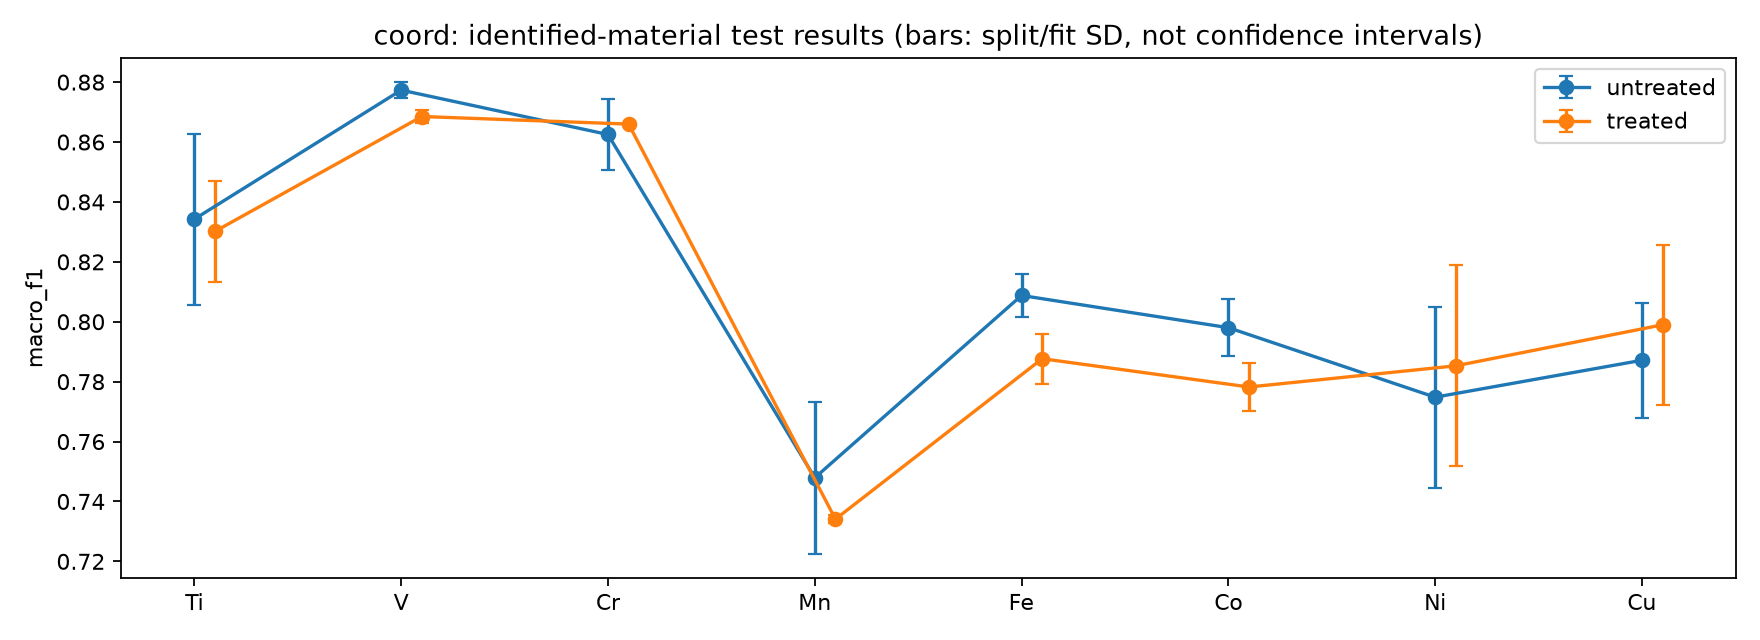
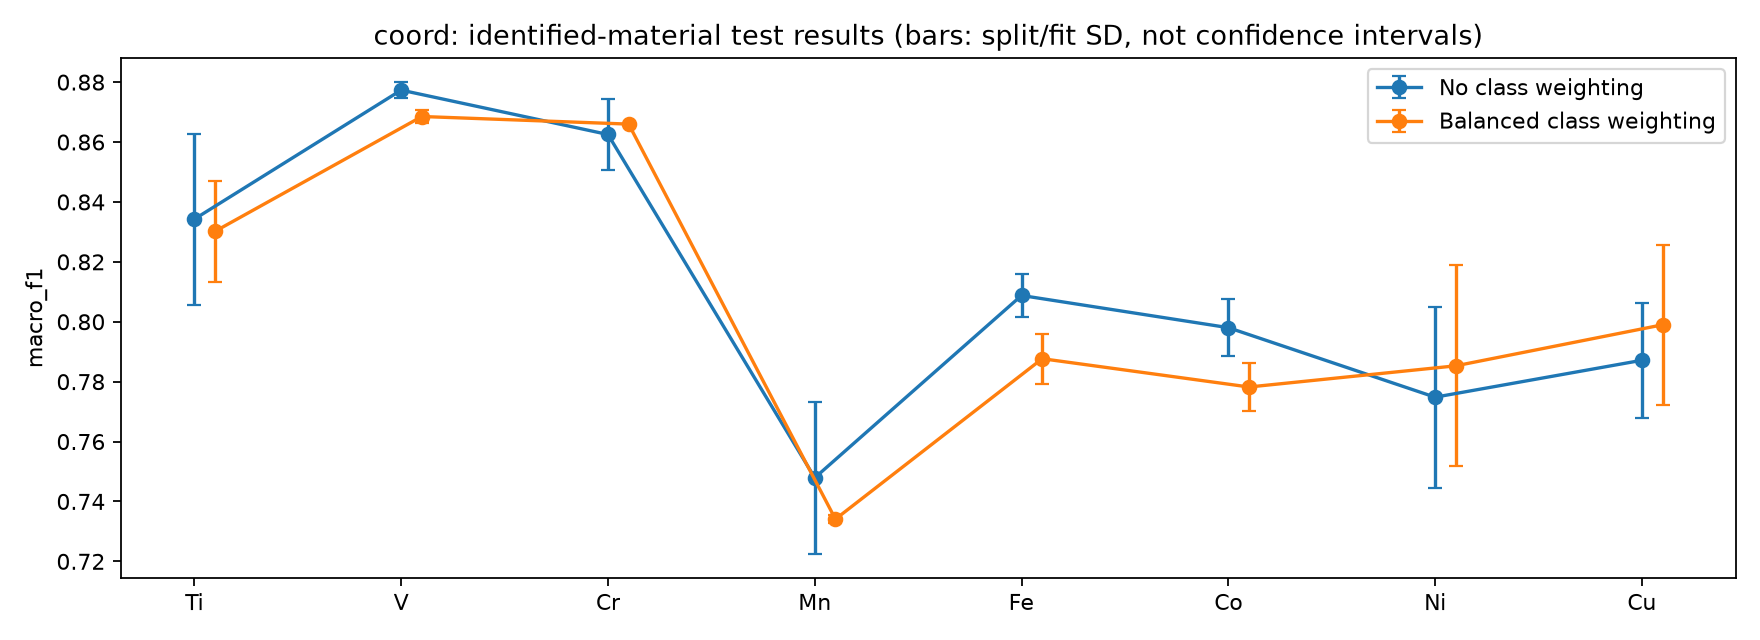
Clarify class-weighting labels in Torrisi Q1 figures

Changed region(s): [[0.7812, 0.0938, 0.9688, 0.2188]]

diff --git a/docs/data/torrisi-2020-xanes-rf/verification/Q1/code/candidate.py b/docs/data/torrisi-2020-xanes-rf/verification/Q1/code/candidate.py
@@ -28,6 +28,9 @@ ELEMENTS=['Ti','V','Cr','Mn','Fe','Co','Ni','Cu']
 TARGETS={'coord':'coordination','md':'avg_nn_dists','bader':'bader'}
 CONDITIONS={'Q1':{'coord':['untreated','treated']},'Q2':{'md':['model']},'Q3':{'bader':['full','white_line']},'Q4':{t:['pointwise','multiscale'] for t in TARGETS},'Q5':{t:['released','unit_peak'] for t in ['coord','md']}}
 
+def condition_label(condition):
+    return {'untreated':'No class weighting','treated':'Balanced class weighting'}.get(condition,condition)
+
 def dump(path,obj):
     path.write_text(json.dumps(obj,indent=2,allow_nan=False)+'\n')
 def write_csv(path,rows,fields=None):
@@ -226,6 +229,8 @@ def summarize(question,out,runs,metrics,evidence,localization,families):
     vals={}
     for row in metrics:vals.setdefault(row['run_id'],{})[row['metric']]=row['value']
     synthesis=[]
+    if question=='Q1':
+        synthesis=['No class weighting uses equal training-record weights. Balanced class weighting gives each training record a weight inversely proportional to its coordination class frequency in the training set. Both conditions use the same spectra and partitions. Machine-readable artifacts retain untreated and treated as the respective condition identifiers.','']
     if question=='Q5':
         ps=evidence['comparisons']
         worsened={t:sum(np.mean([p['gain'] for p in ps if p['element']==e and p['target']==t])<0 for e in ELEMENTS) for t in ['coord','md']}
@@ -248,8 +253,8 @@ def summarize(question,out,runs,metrics,evidence,localization,families):
                 selected=[r for r in runs if r['element']==element and r['target']==target and r['condition']==condition and r['generalization']=='identified_material']
                 a=[vals[r['run_id']][key] for r in selected]
                 points.append(np.mean(a));spreads.append(np.std(a))
-                lines.append(f'| {element} / {target} | {condition} | {np.mean(a):.4f} | {min(a):.4f}–{max(a):.4f} |')
-            ax.errorbar(np.arange(8)+.1*ci,points,yerr=spreads,marker='o',capsize=3,label=condition)
+                lines.append(f'| {element} / {target} | {condition_label(condition)} | {np.mean(a):.4f} | {min(a):.4f}–{max(a):.4f} |')
+            ax.errorbar(np.arange(8)+.1*ci,points,yerr=spreads,marker='o',capsize=3,label=condition_label(condition))
         ax.set_xticks(range(8),ELEMENTS);ax.set_ylabel(key);ax.set_title(f'{target}: identified-material test results (bars: split/fit SD, not confidence intervals)');ax.legend()
     fig.tight_layout();fig.savefig(out/'diagnostics.png',dpi=160);plt.close(fig)
     lines+=['','Paired gains and conditional 95% intervals are in comparisons.csv where applicable. Positive gain favors the second condition; regression gain is a reduction in MAE, classification gain is an increase in macro-F1. Individual intervals are descriptive and are not multiplicity-adjusted.','']
@@ -260,7 +265,7 @@ def summarize(question,out,runs,metrics,evidence,localization,families):
         for condition in CONDITIONS[question][target]:
             selected=[r for r in runs if r['target']==target and r['condition']==condition and r['generalization']=='identified_material']
             gains=[(vals[r['run_id']][key]-base_by_run[r['run_id']]['metrics'][key])*(1 if target=='coord' else -1) for r in selected]
-            lines.append(f'- {target}/{condition}: {np.mean(gains):.4f} mean gain, range {min(gains):.4f}–{max(gains):.4f} across elements and holdouts. This pooled description does not replace the element-specific scores.')
+            lines.append(f'- {target}/{condition_label(condition)}: {np.mean(gains):.4f} mean gain, range {min(gains):.4f}–{max(gains):.4f} across elements and holdouts. This pooled description does not replace the element-specific scores.')
     lines += ['']
     if question in ['Q1','Q4','Q5']:
         lines += ['Paired material-holdout comparisons (positive favors the second condition; intervals conditional on fitted models):','', '| Element / target | Second vs first | Mean gain | Individual 95% intervals |', '|---|---|---:|---|']
@@ -268,7 +273,7 @@ def summarize(question,out,runs,metrics,evidence,localization,families):
             for target in targets:
                 ps=[x for x in evidence['comparisons'] if x['element']==element and x['target']==target and x['generalization']=='identified_material']
                 intervals='; '.join(f'[{x["low"]:.4f}, {x["high"]:.4f}]' for x in ps)
-                lines.append(f'| {element} / {target} | {ps[0]["second"]} vs {ps[0]["first"]} | {np.mean([x["gain"] for x in ps]):.4f} | {intervals} |')
+                lines.append(f'| {element} / {target} | {condition_label(ps[0]["second"])} vs {condition_label(ps[0]["first"])} | {np.mean([x["gain"] for x in ps]):.4f} | {intervals} |')
         lines += ['','Intervals crossing zero are inconclusive for direction. Similar scores are not a formal equivalence result: no practical equivalence margin was specified.','']
     plot_extra(question,out,runs,evidence,localization)
     if question=='Q1':
@@ -279,7 +284,7 @@ def summarize(question,out,runs,metrics,evidence,localization,families):
             f={k:np.mean([vals[r['run_id']][f'f1_{k}'] for r in rr if r['condition']=='untreated']) for k in [4,5,6]}
             spectrum=[vals[r['run_id']]['macro_f1'] for r in runs if r['element']==e and r['condition']=='untreated' and r['generalization']=='spectrum']
             material=[vals[r['run_id']]['macro_f1'] for r in rr if r['condition']=='untreated']
-            lines.append(f'- {e}: untreated class F1(4,5,6)={f[4]:.3f}, {f[5]:.3f}, {f[6]:.3f}; record versus material macro-F1={np.mean(spectrum):.3f} versus {np.mean(material):.3f}. See class_counts.csv for prevalence and confusion.csv for error tradeoffs. Record holdouts can share IDs with training and do not estimate new-material performance.')
+            lines.append(f'- {e}: No class weighting, class F1(4,5,6)={f[4]:.3f}, {f[5]:.3f}, {f[6]:.3f}; record versus material macro-F1={np.mean(spectrum):.3f} versus {np.mean(material):.3f}. See class_counts.csv for prevalence and confusion.csv for error tradeoffs. Record holdouts can share IDs with training and do not estimate new-material performance.')
         lines += ['','Class weighting is one imbalance intervention; failure of this intervention does not show that rare-environment prediction is irreducibly poor. Small class support and unstable material holdouts limit conclusions.']
     elif question=='Q2':
         lines+=['Regimes were defined by the training-distance 10th/90th percentiles. This retrospective error stratification uses test truth to characterize failure; it is not a deployable confidence detector. The training median supplies a non-spectral baseline.','']
@@ -338,7 +343,10 @@ def plot_extra(question,out,runs,evidence,localization):
                 ax.plot([x,x],[p['low'],p['high']],color='tab:blue',alpha=.6)
                 ax.scatter(x,p['gain'],s=20,color='tab:blue')
             ax.axhline(0,color='black',linewidth=.7);ax.set_xticks(range(8),ELEMENTS)
-            ax.set_title(f"{target}: benefit of {z[0]['second']} over {z[0]['first']} (positive favors {z[0]['second']})")
+            if question=='Q1':
+                ax.set_title('coord: Balanced class weighting − No class weighting\nPositive values favor Balanced class weighting')
+            else:
+                ax.set_title(f"{target}: benefit of {z[0]['second']} over {z[0]['first']} (positive favors {z[0]['second']})")
             ax.set_ylabel('Macro-F1 gain' if target=='coord' else 'MAE reduction')
         fig.suptitle('Paired effects with conditional 95% material-bootstrap intervals',fontsize=11)
         fig.tight_layout();fig.savefig(out/'paired_effects.png',dpi=160);plt.close(fig)

diff --git a/docs/data/torrisi-2020-xanes-rf/workflows/candidate.py b/docs/data/torrisi-2020-xanes-rf/workflows/candidate.py
@@ -28,6 +28,9 @@ ELEMENTS=['Ti','V','Cr','Mn','Fe','Co','Ni','Cu']
 TARGETS={'coord':'coordination','md':'avg_nn_dists','bader':'bader'}
 CONDITIONS={'Q1':{'coord':['untreated','treated']},'Q2':{'md':['model']},'Q3':{'bader':['full','white_line']},'Q4':{t:['pointwise','multiscale'] for t in TARGETS},'Q5':{t:['released','unit_peak'] for t in ['coord','md']}}
 
+def condition_label(condition):
+    return {'untreated':'No class weighting','treated':'Balanced class weighting'}.get(condition,condition)
+
 def dump(path,obj):
     path.write_text(json.dumps(obj,indent=2,allow_nan=False)+'\n')
 def write_csv(path,rows,fields=None):
@@ -226,6 +229,8 @@ def summarize(question,out,runs,metrics,evidence,localization,families):
     vals={}
     for row in metrics:vals.setdefault(row['run_id'],{})[row['metric']]=row['value']
     synthesis=[]
+    if question=='Q1':
+        synthesis=['No class weighting uses equal training-record weights. Balanced class weighting gives each training record a weight inversely proportional to its coordination class frequency in the training set. Both conditions use the same spectra and partitions. Machine-readable artifacts retain untreated and treated as the respective condition identifiers.','']
     if question=='Q5':
         ps=evidence['comparisons']
         worsened={t:sum(np.mean([p['gain'] for p in ps if p['element']==e and p['target']==t])<0 for e in ELEMENTS) for t in ['coord','md']}
@@ -248,8 +253,8 @@ def summarize(question,out,runs,metrics,evidence,localization,families):
                 selected=[r for r in runs if r['element']==element and r['target']==target and r['condition']==condition and r['generalization']=='identified_material']
                 a=[vals[r['run_id']][key] for r in selected]
                 points.append(np.mean(a));spreads.append(np.std(a))
-                lines.append(f'| {element} / {target} | {condition} | {np.mean(a):.4f} | {min(a):.4f}–{max(a):.4f} |')
-            ax.errorbar(np.arange(8)+.1*ci,points,yerr=spreads,marker='o',capsize=3,label=condition)
+                lines.append(f'| {element} / {target} | {condition_label(condition)} | {np.mean(a):.4f} | {min(a):.4f}–{max(a):.4f} |')
+            ax.errorbar(np.arange(8)+.1*ci,points,yerr=spreads,marker='o',capsize=3,label=condition_label(condition))
         ax.set_xticks(range(8),ELEMENTS);ax.set_ylabel(key);ax.set_title(f'{target}: identified-material test results (bars: split/fit SD, not confidence intervals)');ax.legend()
     fig.tight_layout();fig.savefig(out/'diagnostics.png',dpi=160);plt.close(fig)
     lines+=['','Paired gains and conditional 95% intervals are in comparisons.csv where applicable. Positive gain favors the second condition; regression gain is a reduction in MAE, classification gain is an increase in macro-F1. Individual intervals are descriptive and are not multiplicity-adjusted.','']
@@ -260,7 +265,7 @@ def summarize(question,out,runs,metrics,evidence,localization,families):
         for condition in CONDITIONS[question][target]:
             selected=[r for r in runs if r['target']==target and r['condition']==condition and r['generalization']=='identified_material']
             gains=[(vals[r['run_id']][key]-base_by_run[r['run_id']]['metrics'][key])*(1 if target=='coord' else -1) for r in selected]
-            lines.append(f'- {target}/{condition}: {np.mean(gains):.4f} mean gain, range {min(gains):.4f}–{max(gains):.4f} across elements and holdouts. This pooled description does not replace the element-specific scores.')
+            lines.append(f'- {target}/{condition_label(condition)}: {np.mean(gains):.4f} mean gain, range {min(gains):.4f}–{max(gains):.4f} across elements and holdouts. This pooled description does not replace the element-specific scores.')
     lines += ['']
     if question in ['Q1','Q4','Q5']:
         lines += ['Paired material-holdout comparisons (positive favors the second condition; intervals conditional on fitted models):','', '| Element / target | Second vs first | Mean gain | Individual 95% intervals |', '|---|---|---:|---|']
@@ -268,7 +273,7 @@ def summarize(question,out,runs,metrics,evidence,localization,families):
             for target in targets:
                 ps=[x for x in evidence['comparisons'] if x['element']==element and x['target']==target and x['generalization']=='identified_material']
                 intervals='; '.join(f'[{x["low"]:.4f}, {x["high"]:.4f}]' for x in ps)
-                lines.append(f'| {element} / {target} | {ps[0]["second"]} vs {ps[0]["first"]} | {np.mean([x["gain"] for x in ps]):.4f} | {intervals} |')
+                lines.append(f'| {element} / {target} | {condition_label(ps[0]["second"])} vs {condition_label(ps[0]["first"])} | {np.mean([x["gain"] for x in ps]):.4f} | {intervals} |')
         lines += ['','Intervals crossing zero are inconclusive for direction. Similar scores are not a formal equivalence result: no practical equivalence margin was specified.','']
     plot_extra(question,out,runs,evidence,localization)
     if question=='Q1':
@@ -279,7 +284,7 @@ def summarize(question,out,runs,metrics,evidence,localization,families):
             f={k:np.mean([vals[r['run_id']][f'f1_{k}'] for r in rr if r['condition']=='untreated']) for k in [4,5,6]}
             spectrum=[vals[r['run_id']]['macro_f1'] for r in runs if r['element']==e and r['condition']=='untreated' and r['generalization']=='spectrum']
             material=[vals[r['run_id']]['macro_f1'] for r in rr if r['condition']=='untreated']
-            lines.append(f'- {e}: untreated class F1(4,5,6)={f[4]:.3f}, {f[5]:.3f}, {f[6]:.3f}; record versus material macro-F1={np.mean(spectrum):.3f} versus {np.mean(material):.3f}. See class_counts.csv for prevalence and confusion.csv for error tradeoffs. Record holdouts can share IDs with training and do not estimate new-material performance.')
+            lines.append(f'- {e}: No class weighting, class F1(4,5,6)={f[4]:.3f}, {f[5]:.3f}, {f[6]:.3f}; record versus material macro-F1={np.mean(spectrum):.3f} versus {np.mean(material):.3f}. See class_counts.csv for prevalence and confusion.csv for error tradeoffs. Record holdouts can share IDs with training and do not estimate new-material performance.')
         lines += ['','Class weighting is one imbalance intervention; failure of this intervention does not show that rare-environment prediction is irreducibly poor. Small class support and unstable material holdouts limit conclusions.']
     elif question=='Q2':
         lines+=['Regimes were defined by the training-distance 10th/90th percentiles. This retrospective error stratification uses test truth to characterize failure; it is not a deployable confidence detector. The training median supplies a non-spectral baseline.','']
@@ -338,7 +343,10 @@ def plot_extra(question,out,runs,evidence,localization):
                 ax.plot([x,x],[p['low'],p['high']],color='tab:blue',alpha=.6)
                 ax.scatter(x,p['gain'],s=20,color='tab:blue')
             ax.axhline(0,color='black',linewidth=.7);ax.set_xticks(range(8),ELEMENTS)
-            ax.set_title(f"{target}: benefit of {z[0]['second']} over {z[0]['first']} (positive favors {z[0]['second']})")
+            if question=='Q1':
+                ax.set_title('coord: Balanced class weighting − No class weighting\nPositive values favor Balanced class weighting')
+            else:
+                ax.set_title(f"{target}: benefit of {z[0]['second']} over {z[0]['first']} (positive favors {z[0]['second']})")
             ax.set_ylabel('Macro-F1 gain' if target=='coord' else 'MAE reduction')
         fig.suptitle('Paired effects with conditional 95% material-bootstrap intervals',fontsize=11)
         fig.tight_layout();fig.savefig(out/'paired_effects.png',dpi=160);plt.close(fig)

diff --git a/papers/torrisi-2020-xanes-rf/build_entry.py b/papers/torrisi-2020-xanes-rf/build_entry.py
@@ -1,5 +1,6 @@
 #!/usr/bin/env python3
 """Build standalone research tasks; worked methods remain evaluator-only."""
+import hashlib
 import json
 from pathlib import Path
 ROOT=Path(__file__).resolve().parents[2]
@@ -34,7 +35,7 @@ TASKS=[
  'For coordination numbers 4, 5 and 6 and mean neighbor distance across all eight elements, determine which conclusions about predictive information and its energy-localized signatures survive division of each spectrum by its own maximum. Distinguish normalization effects from model-fitting and sample-selection variability, and assess whether similar prediction quality supports the same scientific interpretation. ',
  'Normalization sensitivity discussed in the article and the four released score tables. Interpretation stability requires additional experiments.')]
 OPERATIONS={
- 'Q1':'Compare untreated versus class-weighted coordination models on paired material holdouts and record holdouts of the same identified cohort. Inspect training/test class support, per-class F1, confusion counts and conditional paired uncertainty.',
+ 'Q1':'Compare No class weighting and Balanced class weighting coordination models on paired material holdouts and record holdouts of the same identified cohort. Inspect training/test class support, per-class F1, confusion counts and conditional paired uncertainty.',
  'Q2':'Fit distance regressors, define short/middle/long regimes using training-distance quantiles, and compare signed errors and MAE with a training-median baseline, including material-bootstrap intervals.',
  'Q3':'Compare full absorption vectors with photon energy at maximum absorption using independently validation-selected nonlinear regressors. Estimate paired uncertainty on charge prediction differences.',
  'Q4':'Construct 51 quadratic coefficients over 10/20/50-point windows, compare with 100-point absorption for three properties, then perturb energy-midpoint groups and coefficient families on heldout data and measure stability across material partitions.',
@@ -85,9 +86,14 @@ def build():
             data.append(link(name,f'verification/published/{name}','Author-released contextual result; differing study designs need not match these values.'))
         for name in ['report.md','design.json','metrics.csv','predictions.csv','partitions.csv','evidence.json','comparisons.csv','regimes.csv','class_counts.csv','confusion.csv','feature_definitions.json','localization.json','shape_families.csv']:
             if (example/name).exists():data.append(link(name,f'verification/{q}/{name}','Executed illustrative result, not a numerical acceptance target.'))
+        if q=='Q1' and (example/'label_refresh.json').exists():
+            methods.append(link('Figure-label update',f'verification/{q}/label_refresh.json','Display-label refresh with artifact hashes; predictions, scores and numerical code remain unchanged.'))
         figures=[]
         for filename,caption in [('diagnostics.png','Prediction scores and sensitivity across material holdouts.'),('paired_effects.png','Paired effects with conditional material-bootstrap intervals; positive favors the condition named in the plot.'),('regime_errors.png','Distance error and signed bias in training-defined regimes.'),('localization.png','Heldout feature-group permutation effects; midpoint bins are not full feature support.')]:
-            if (example/filename).exists():figures.append(dict(image=f'{BASE}/verification/{q}/{filename}',label=f'{q} '+filename,caption=caption+' Generated by the illustrative workflow, not copied from the article.'))
+            if (example/filename).exists():
+                image=f'{BASE}/verification/{q}/{filename}'
+                if q=='Q1':image+='?v='+hashlib.sha256((example/filename).read_bytes()).hexdigest()[:12]
+                figures.append(dict(image=image,label=f'{q} '+filename,caption=caption+' Generated by the illustrative workflow, not copied from the article.'))
         reasoning=('Inspect the released spectra, labels, material IDs and data-source labels, then choose and justify eligibility, representations, learners and evaluation. Fit the question’s comparison conditions with a defensible evaluation design, quantify uncertainty and investigate sensitivity. The example holds out material IDs; other designs are judged against their stated scientific claims. Save row-level predictions and partitions so scores can be independently reconstructed from raw labels. Inspect task-specific evidence using the scientific rubric; published plots and tables supply context, not fixed score targets. The worked workflow documents one executable choice, which does not constrain independent solutions. Source derivation: '+source)
         scenarios.append(dict(id='TORRISI20-'+q,kind='Subquestion',executionStatus=workflow['status'],title=title,inputs=inputs,prompt=dict(background=background+extra,instruction=instruction+DESIGN+OUTPUT),groundTruthReasoning=reasoning,
             verification=dict(description='Reconstruct truth from released labels; check record identities, training/test separation and prediction coverage, and calculate scores. Report shared material IDs and missing IDs so the reviewer can assess the claimed evaluation scope. Check explicitly declared pairing or material separation when provided. Then require scientific review of executable code, experimental design and evidence. Arithmetic success alone is not scientific acceptance. Negative results are valid; no agreement with one model or reference prediction is required.',data=data,figures=figures,methods=methods,
@@ -98,8 +104,6 @@ def build():
     dataset=json.loads(path.read_text())
     dataset['papers']=[paper if p['id']==ID else p for p in dataset['papers']]
     if not any(p['id']==ID for p in dataset['papers']):dataset['papers'].append(paper)
-    for suffix in ['-torrisi-research-v2','-torrisi-prompts-v3']:
-        if dataset['datasetId'].endswith(suffix):dataset['datasetId']=dataset['datasetId'][:-len(suffix)]
-    dataset['datasetId']+='-torrisi-prompts-v3'
+    # Preserve the release ID; presentation-only rebuilds do not change the task.
     path.write_text(json.dumps(dataset,indent=2,ensure_ascii=False)+'\n')
 if __name__=='__main__':build()

diff --git a/docs/data/torrisi-2020-xanes-rf/verification/Q1/report.md b/docs/data/torrisi-2020-xanes-rf/verification/Q1/report.md
@@ -1,5 +1,7 @@
 # Q1: executed illustrative analysis
 
+No class weighting uses equal training-record weights. Balanced class weighting gives each training record a weight inversely proportional to its coordination class frequency in the training set. Both conditions use the same spectra and partitions. Machine-readable artifacts retain untreated and treated as the respective condition identifiers.
+
 This is one defensible, limited research design, not a reference-score target. ExtraTrees models were selected using separate validation data; test predictions were produced only after that choice. Details, run memberships and hashes are in design.json and the row-level audit tables.
 
 Primary evaluation holds out material identifiers. Missing IDs occur in the feff-origin records, whereas identified records come from scrape. The restriction changes the source population; these results support claims only about the identified population. Unknown-ID records were excluded, not relabeled as new materials. Coverage and target shifts are in evidence.json.
@@ -10,55 +12,55 @@ Scores below are macro-F1 for coordination and MAE for regression (Å for distan
 
 | Element / target | Condition | Mean test score | Range across material holdouts/fits |
 |---|---|---:|---:|
-| Ti / coord | untreated | 0.8343 | 0.8057–0.8628 |
-| V / coord | untreated | 0.8773 | 0.8745–0.8801 |
-| Cr / coord | untreated | 0.8625 | 0.8507–0.8744 |
-| Mn / coord | untreated | 0.7479 | 0.7225–0.7733 |
-| Fe / coord | untreated | 0.8088 | 0.8015–0.8160 |
-| Co / coord | untreated | 0.7980 | 0.7885–0.8076 |
-| Ni / coord | untreated | 0.7748 | 0.7446–0.8050 |
-| Cu / coord | untreated | 0.7871 | 0.7680–0.8063 |
-| Ti / coord | treated | 0.8302 | 0.8134–0.8470 |
-| V / coord | treated | 0.8685 | 0.8662–0.8709 |
-| Cr / coord | treated | 0.8660 | 0.8659–0.8661 |
-| Mn / coord | treated | 0.7341 | 0.7328–0.7354 |
-| Fe / coord | treated | 0.7877 | 0.7794–0.7960 |
-| Co / coord | treated | 0.7782 | 0.7701–0.7863 |
-| Ni / coord | treated | 0.7853 | 0.7517–0.8189 |
-| Cu / coord | treated | 0.7990 | 0.7723–0.8256 |
+| Ti / coord | No class weighting | 0.8343 | 0.8057–0.8628 |
+| V / coord | No class weighting | 0.8773 | 0.8745–0.8801 |
+| Cr / coord | No class weighting | 0.8625 | 0.8507–0.8744 |
+| Mn / coord | No class weighting | 0.7479 | 0.7225–0.7733 |
+| Fe / coord | No class weighting | 0.8088 | 0.8015–0.8160 |
+| Co / coord | No class weighting | 0.7980 | 0.7885–0.8076 |
+| Ni / coord | No class weighting | 0.7748 | 0.7446–0.8050 |
+| Cu / coord | No class weighting | 0.7871 | 0.7680–0.8063 |
+| Ti / coord | Balanced class weighting | 0.8302 | 0.8134–0.8470 |
+| V / coord | Balanced class weighting | 0.8685 | 0.8662–0.8709 |
+| Cr / coord | Balanced class weighting | 0.8660 | 0.8659–0.8661 |
+| Mn / coord | Balanced class weighting | 0.7341 | 0.7328–0.7354 |
+| Fe / coord | Balanced class weighting | 0.7877 | 0.7794–0.7960 |
+| Co / coord | Balanced class weighting | 0.7782 | 0.7701–0.7863 |
+| Ni / coord | Balanced class weighting | 0.7853 | 0.7517–0.8189 |
+| Cu / coord | Balanced class weighting | 0.7990 | 0.7723–0.8256 |
 
 Paired gains and conditional 95% intervals are in comparisons.csv where applicable. Positive gain favors the second condition; regression gain is a reduction in MAE, classification gain is an increase in macro-F1. Individual intervals are descriptive and are not multiplicity-adjusted.
 
 Constant baselines predict the training-majority coordination class or training-median regression label. Mean heldout baseline-to-model gains are:
 
-- coord/untreated: 0.5800 mean gain, range 0.4762–0.7269 across elements and holdouts. This pooled description does not replace the element-specific scores.
-- coord/treated: 0.5748 mean gain, range 0.4872–0.7177 across elements and holdouts. This pooled description does not replace the element-specific scores.
+- coord/No class weighting: 0.5800 mean gain, range 0.4762–0.7269 across elements and holdouts. This pooled description does not replace the element-specific scores.
+- coord/Balanced class weighting: 0.5748 mean gain, range 0.4872–0.7177 across elements and holdouts. This pooled description does not replace the element-specific scores.
 
 Paired material-holdout comparisons (positive favors the second condition; intervals conditional on fitted models):
 
 | Element / target | Second vs first | Mean gain | Individual 95% intervals |
 |---|---|---:|---|
-| Ti / coord | treated vs untreated | -0.0041 | [-0.0284, 0.0460]; [-0.0494, 0.0162] |
-| V / coord | treated vs untreated | -0.0088 | [-0.0219, 0.0031]; [-0.0235, 0.0058] |
-| Cr / coord | treated vs untreated | 0.0035 | [-0.0315, 0.0146]; [0.0003, 0.0329] |
-| Mn / coord | treated vs untreated | -0.0138 | [-0.0633, 0.0911]; [-0.0925, 0.0118] |
-| Fe / coord | treated vs untreated | -0.0211 | [-0.0414, -0.0037]; [-0.0380, -0.0007] |
-| Co / coord | treated vs untreated | -0.0198 | [-0.0414, 0.0017]; [-0.0415, 0.0015] |
-| Ni / coord | treated vs untreated | 0.0105 | [-0.0131, 0.0497]; [-0.0296, 0.0681] |
-| Cu / coord | treated vs untreated | 0.0118 | [-0.0788, 0.0055]; [0.0150, 0.1122] |
+| Ti / coord | Balanced class weighting vs No class weighting | -0.0041 | [-0.0284, 0.0460]; [-0.0494, 0.0162] |
+| V / coord | Balanced class weighting vs No class weighting | -0.0088 | [-0.0219, 0.0031]; [-0.0235, 0.0058] |
+| Cr / coord | Balanced class weighting vs No class weighting | 0.0035 | [-0.0315, 0.0146]; [0.0003, 0.0329] |
+| Mn / coord | Balanced class weighting vs No class weighting | -0.0138 | [-0.0633, 0.0911]; [-0.0925, 0.0118] |
+| Fe / coord | Balanced class weighting vs No class weighting | -0.0211 | [-0.0414, -0.0037]; [-0.0380, -0.0007] |
+| Co / coord | Balanced class weighting vs No class weighting | -0.0198 | [-0.0414, 0.0017]; [-0.0415, 0.0015] |
+| Ni / coord | Balanced class weighting vs No class weighting | 0.0105 | [-0.0131, 0.0497]; [-0.0296, 0.0681] |
+| Cu / coord | Balanced class weighting vs No class weighting | 0.0118 | [-0.0788, 0.0055]; [0.0150, 0.1122] |
 
 Intervals crossing zero are inconclusive for direction. Similar scores are not a formal equivalence result: no practical equivalence margin was specified.
 
 Class weighting had positive macro-F1 gain in 6/16 material holdouts; only 2 conditional intervals were wholly above zero. Overall success must therefore be judged by per-class F1 and confusion counts, not accuracy alone.
 
-- Ti: untreated class F1(4,5,6)=0.764, 0.873, 0.866; record versus material macro-F1=0.805 versus 0.834. See class_counts.csv for prevalence and confusion.csv for error tradeoffs. Record holdouts can share IDs with training and do not estimate new-material performance.
-- V: untreated class F1(4,5,6)=0.957, 0.825, 0.850; record versus material macro-F1=0.886 versus 0.877. See class_counts.csv for prevalence and confusion.csv for error tradeoffs. Record holdouts can share IDs with training and do not estimate new-material performance.
-- Cr: untreated class F1(4,5,6)=0.952, 0.728, 0.907; record versus material macro-F1=0.832 versus 0.863. See class_counts.csv for prevalence and confusion.csv for error tradeoffs. Record holdouts can share IDs with training and do not estimate new-material performance.
-- Mn: untreated class F1(4,5,6)=0.616, 0.847, 0.781; record versus material macro-F1=0.748 versus 0.748. See class_counts.csv for prevalence and confusion.csv for error tradeoffs. Record holdouts can share IDs with training and do not estimate new-material performance.
-- Fe: untreated class F1(4,5,6)=0.786, 0.832, 0.808; record versus material macro-F1=0.839 versus 0.809. See class_counts.csv for prevalence and confusion.csv for error tradeoffs. Record holdouts can share IDs with training and do not estimate new-material performance.
-- Co: untreated class F1(4,5,6)=0.816, 0.688, 0.890; record versus material macro-F1=0.809 versus 0.798. See class_counts.csv for prevalence and confusion.csv for error tradeoffs. Record holdouts can share IDs with training and do not estimate new-material performance.
-- Ni: untreated class F1(4,5,6)=0.695, 0.728, 0.901; record versus material macro-F1=0.759 versus 0.775. See class_counts.csv for prevalence and confusion.csv for error tradeoffs. Record holdouts can share IDs with training and do not estimate new-material performance.
-- Cu: untreated class F1(4,5,6)=0.647, 0.906, 0.808; record versus material macro-F1=0.797 versus 0.787. See class_counts.csv for prevalence and confusion.csv for error tradeoffs. Record holdouts can share IDs with training and do not estimate new-material performance.
+- Ti: No class weighting, class F1(4,5,6)=0.764, 0.873, 0.866; record versus material macro-F1=0.805 versus 0.834. See class_counts.csv for prevalence and confusion.csv for error tradeoffs. Record holdouts can share IDs with training and do not estimate new-material performance.
+- V: No class weighting, class F1(4,5,6)=0.957, 0.825, 0.850; record versus material macro-F1=0.886 versus 0.877. See class_counts.csv for prevalence and confusion.csv for error tradeoffs. Record holdouts can share IDs with training and do not estimate new-material performance.
+- Cr: No class weighting, class F1(4,5,6)=0.952, 0.728, 0.907; record versus material macro-F1=0.832 versus 0.863. See class_counts.csv for prevalence and confusion.csv for error tradeoffs. Record holdouts can share IDs with training and do not estimate new-material performance.
+- Mn: No class weighting, class F1(4,5,6)=0.616, 0.847, 0.781; record versus material macro-F1=0.748 versus 0.748. See class_counts.csv for prevalence and confusion.csv for error tradeoffs. Record holdouts can share IDs with training and do not estimate new-material performance.
+- Fe: No class weighting, class F1(4,5,6)=0.786, 0.832, 0.808; record versus material macro-F1=0.839 versus 0.809. See class_counts.csv for prevalence and confusion.csv for error tradeoffs. Record holdouts can share IDs with training and do not estimate new-material performance.
+- Co: No class weighting, class F1(4,5,6)=0.816, 0.688, 0.890; record versus material macro-F1=0.809 versus 0.798. See class_counts.csv for prevalence and confusion.csv for error tradeoffs. Record holdouts can share IDs with training and do not estimate new-material performance.
+- Ni: No class weighting, class F1(4,5,6)=0.695, 0.728, 0.901; record versus material macro-F1=0.759 versus 0.775. See class_counts.csv for prevalence and confusion.csv for error tradeoffs. Record holdouts can share IDs with training and do not estimate new-material performance.
+- Cu: No class weighting, class F1(4,5,6)=0.647, 0.906, 0.808; record versus material macro-F1=0.797 versus 0.787. See class_counts.csv for prevalence and confusion.csv for error tradeoffs. Record holdouts can share IDs with training and do not estimate new-material performance.
 
 Class weighting is one imbalance intervention; failure of this intervention does not show that rare-environment prediction is irreducibly poor. Small class support and unstable material holdouts limit conclusions.
 
